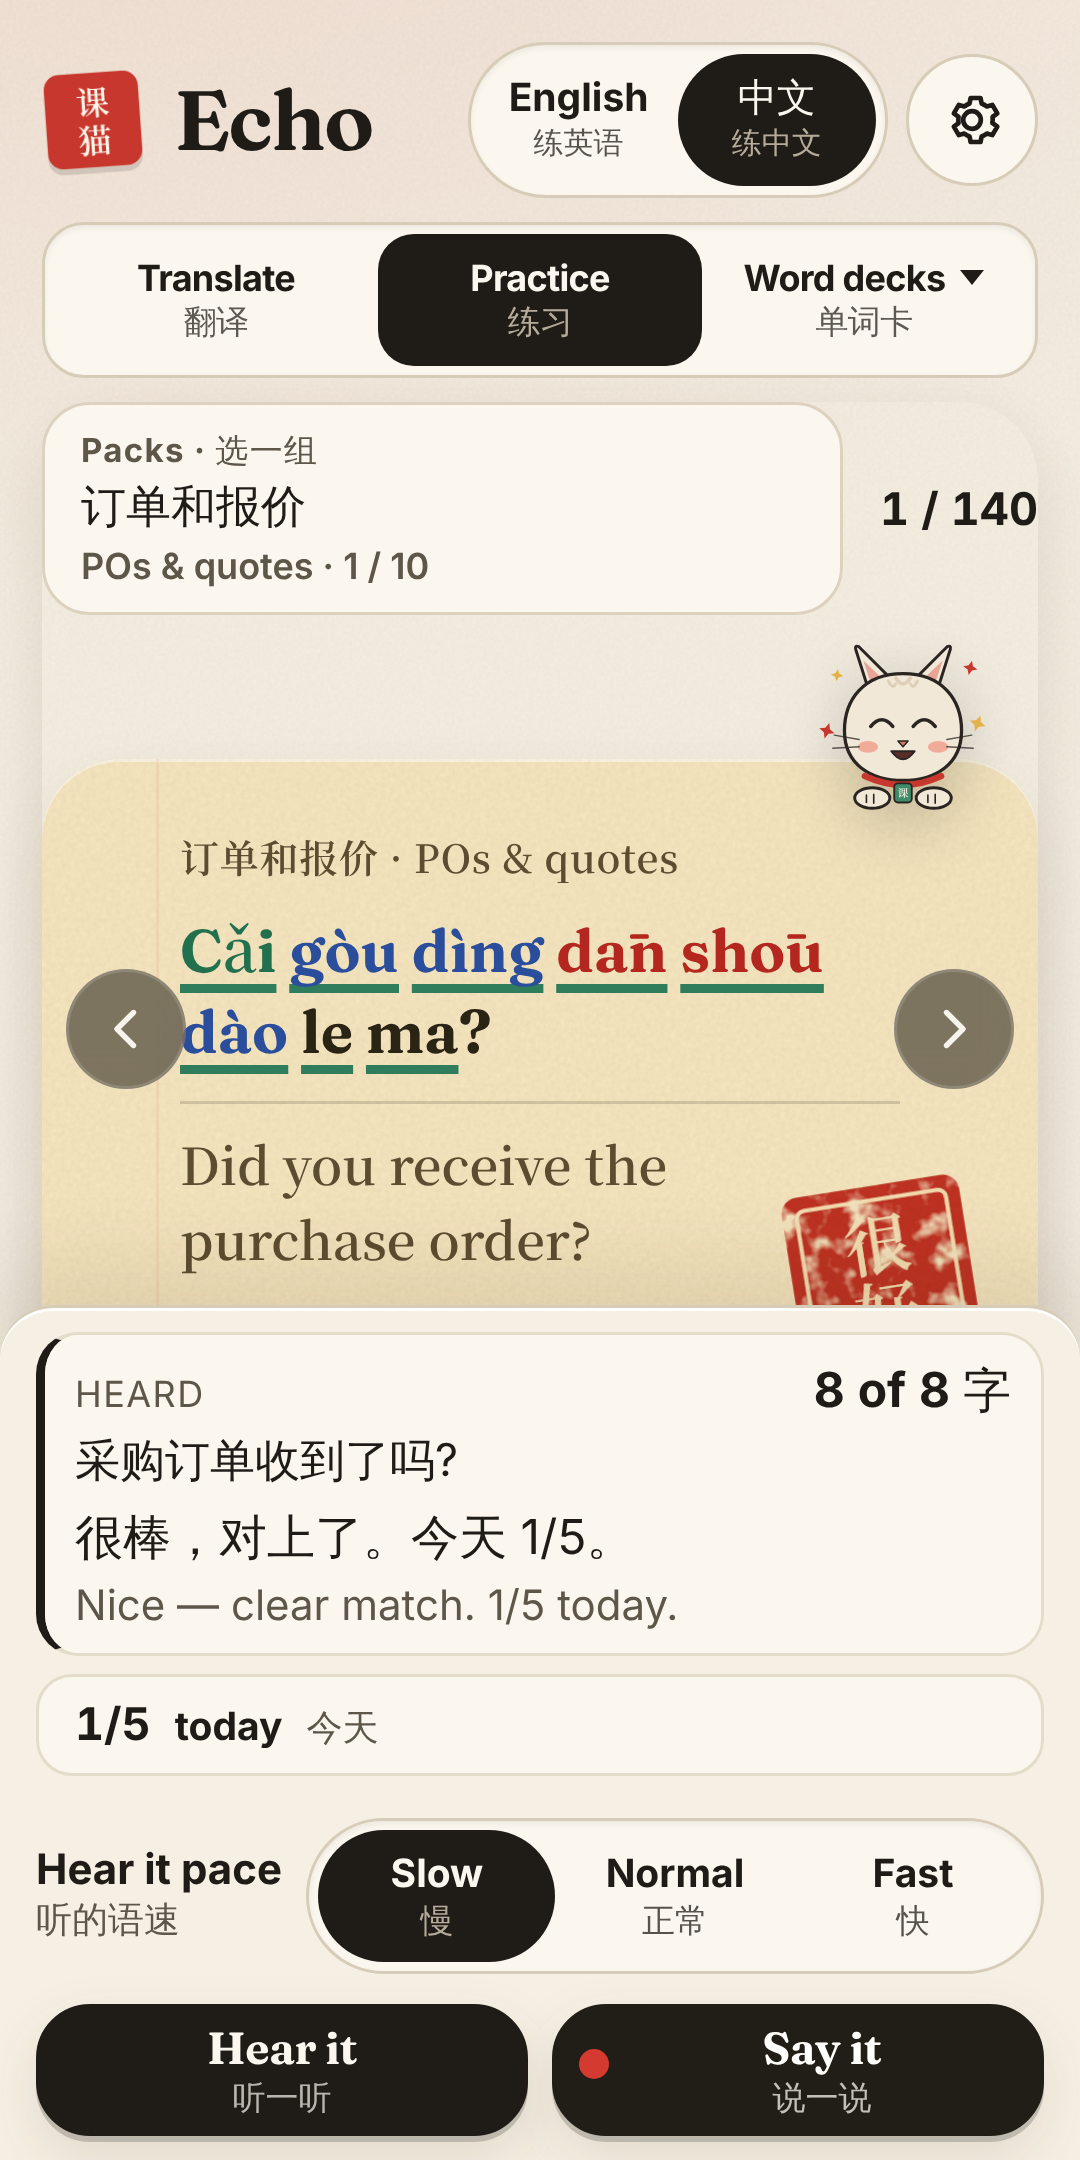
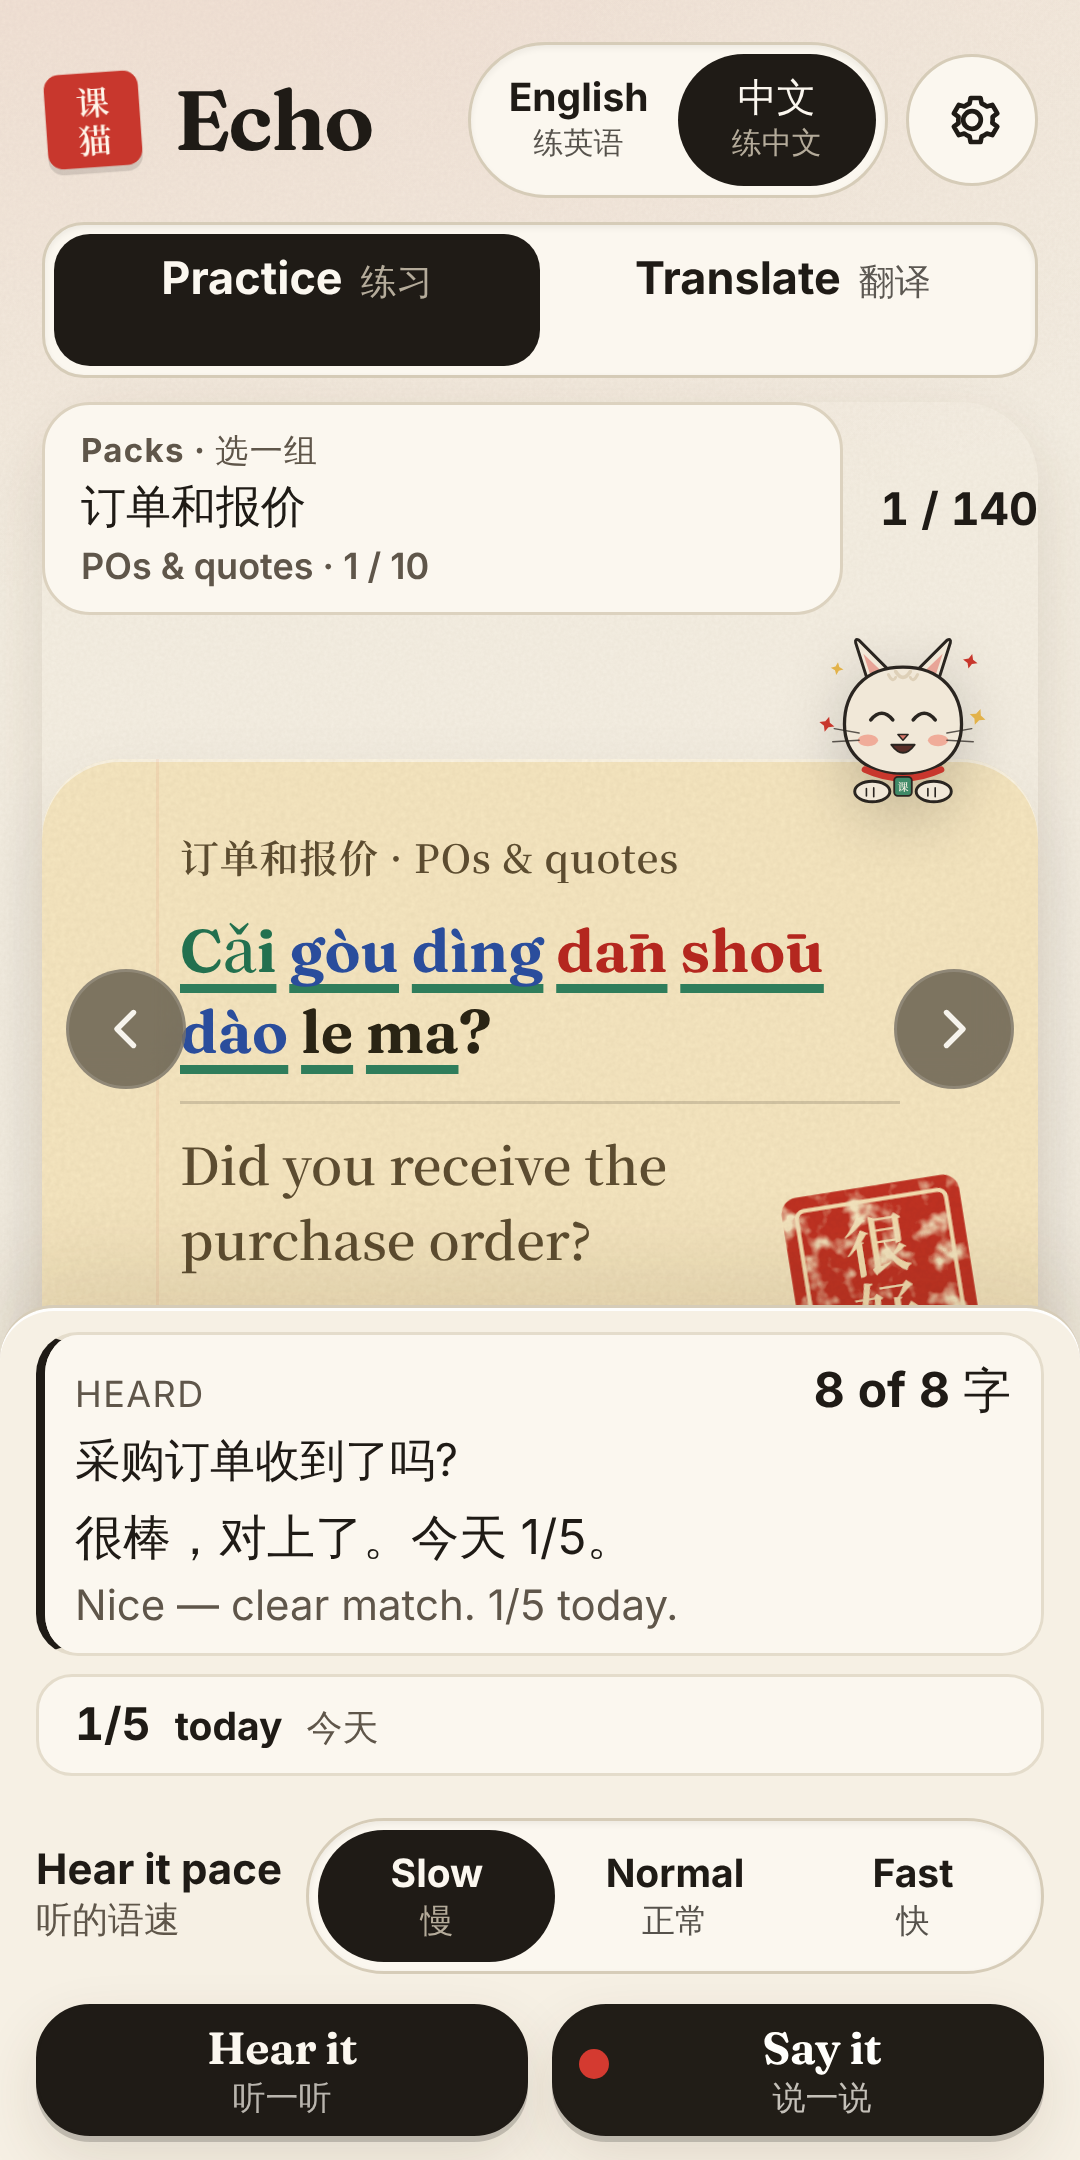
Hide Word decks; put Practice first and Translate second
Word decks stay in the code behind SHOW_WORD_DECKS (off). A saved
"words" mode falls back to Practice. Play screenshots, listing and
release notes updated.

Claude-Session: https://claude.ai/code/session_01SRqoHkY9zMNPVynvx2s1Nb

Changed region(s): [[0.0306, 0.0931, 0.3972, 0.1861], [0.4278, 0.0931, 0.8861, 0.1861], [0.7639, 0.2792, 0.9167, 0.3722]]

diff --git a/tests/word-card.test.tsx b/tests/word-card.test.tsx
@@ -147,8 +147,8 @@ describe("office word card", () => {
         onPickDeck: () => undefined,
       }),
     );
-    expect(open.indexOf('id="mode-translate"')).toBeLessThan(open.indexOf('id="mode-practice"'));
-    expect(open.indexOf('id="mode-practice"')).toBeLessThan(open.indexOf('id="mode-words"'));
+    expect(open.indexOf('id="mode-practice"')).toBeLessThan(open.indexOf('id="mode-translate"'));
+    expect(open.indexOf('id="mode-translate"')).toBeLessThan(open.indexOf('id="mode-words"'));
     expect(open).toContain(">Word decks<");
     expect(open).toContain(">单词卡<");
     expect(open).toContain('aria-haspopup="menu"');
@@ -168,8 +168,8 @@ describe("office word card", () => {
         onPickDeck: () => undefined,
       }),
     );
-    expect(chinese.indexOf('id="mode-translate"')).toBeLessThan(chinese.indexOf('id="mode-practice"'));
-    expect(chinese.indexOf('id="mode-practice"')).toBeLessThan(chinese.indexOf('id="mode-words"'));
+    expect(chinese.indexOf('id="mode-practice"')).toBeLessThan(chinese.indexOf('id="mode-translate"'));
+    expect(chinese.indexOf('id="mode-translate"')).toBeLessThan(chinese.indexOf('id="mode-words"'));
     expect(chinese).toContain('id="mode-words"');
     expect(chinese).toContain(`id="word-deck-${TIAN_DECK_ID}"`);
     expect(chinese).toContain(TIAN_DECK_NAME);

diff --git a/src/components/ModeNav.tsx b/src/components/ModeNav.tsx
@@ -60,16 +60,6 @@ export function ModeNav({ mode, onChange, decks = [], deckId = null, onPickDeck 
       <div className={showDecks ? "mode-switch has-decks" : "mode-switch"} role="group" aria-label="Mode. 模式">
         <button
           type="button"
-          id="mode-translate"
-          className={mode === "translate" ? "on" : undefined}
-          aria-pressed={mode === "translate"}
-          onClick={() => pickMode("translate")}
-        >
-          <span>Translate</span>
-          <small>翻译</small>
-        </button>
-        <button
-          type="button"
           id="mode-practice"
           className={mode === "practice" ? "on" : undefined}
           aria-pressed={mode === "practice"}
@@ -77,6 +67,16 @@ export function ModeNav({ mode, onChange, decks = [], deckId = null, onPickDeck 
         >
           <span>Practice</span>
           <small>练习</small>
+        </button>
+        <button
+          type="button"
+          id="mode-translate"
+          className={mode === "translate" ? "on" : undefined}
+          aria-pressed={mode === "translate"}
+          onClick={() => pickMode("translate")}
+        >
+          <span>Translate</span>
+          <small>翻译</small>
         </button>
         {showDecks ? (
           <div className="mode-deck" ref={deckRef}>

diff --git a/tests/translate.test.ts b/tests/translate.test.ts
@@ -215,9 +215,9 @@ describe("Translate screen", () => {
     expect(html).toContain('disabled=""');
   });
 
-  it("puts Translate before Practice and leaves Settings as the gear", () => {
+  it("puts Practice before Translate and leaves Settings as the gear", () => {
     const nav = renderToStaticMarkup(createElement(ModeNav, { mode: "practice", onChange: () => undefined }));
-    expect(nav.indexOf('id="mode-translate"')).toBeLessThan(nav.indexOf('id="mode-practice"'));
+    expect(nav.indexOf('id="mode-practice"')).toBeLessThan(nav.indexOf('id="mode-translate"'));
     expect(nav).not.toContain('id="mode-words"');
     expect(nav).toContain(">Practice<");
     expect(nav).toContain(">练习<");
@@ -249,5 +249,12 @@ describe("Translate screen", () => {
     expect(hook).not.toContain("api.openai.com");
     expect(readFileSync("src/translate/engine.ts", "utf8")).not.toMatch(/sk-[A-Za-z0-9]/);
     expect(readFileSync("src/speech/tts.ts", "utf8")).toContain("export function speakPlain");
+  });
+});
+
+describe("top tabs", () => {
+  it("hides Word decks in the app for now", () => {
+    const app = readFileSync("src/App.tsx", "utf8");
+    expect(app).toContain("const SHOW_WORD_DECKS = false;");
   });
 });

diff --git a/src/App.tsx b/src/App.tsx
@@ -14,6 +14,8 @@ import { wordDecksFor } from "./practice/words";
 import { useTranslate } from "./translate/useTranslate";
 import { clearLandingDismissed, readAppMode, readLandingDismissed, writeAppMode, writeLandingDismissed } from "./ui/landing";
 
+const SHOW_WORD_DECKS = false;
+
 export function App() {
   const practice = usePractice();
   const translate = useTranslate();
@@ -22,7 +24,8 @@ export function App() {
   const [showLanding, setShowLanding] = useState(() => !readLandingDismissed(practiceLocalStorage()));
   const [mode, setMode] = useState<EchoMode>(() => readAppMode(practiceLocalStorage()));
   const [deckPick, setDeckPick] = useState<string | null>(null);
-  const decks = wordDecksFor(lang);
+  // Word decks are hidden for now: Practice first, Translate second.
+  const decks = SHOW_WORD_DECKS ? wordDecksFor(lang) : [];
   const activeDeck = decks.find((deck) => deck.id === deckPick) ?? decks[0] ?? null;
   const shownMode: EchoMode = mode === "words" && decks.length === 0 ? "practice" : mode;
 

diff --git a/tests/words.test.ts b/tests/words.test.ts
@@ -224,7 +224,7 @@ describe("word practice wiring", () => {
     const practiceAt = nav.indexOf('id="mode-practice"');
     const wordsAt = nav.indexOf('id="mode-words"');
     expect(translateAt).toBeGreaterThan(-1);
-    expect(translateAt).toBeLessThan(practiceAt);
-    expect(practiceAt).toBeLessThan(wordsAt);
+    expect(practiceAt).toBeLessThan(translateAt);
+    expect(translateAt).toBeLessThan(wordsAt);
   });
 });

diff --git a/docs/play-store-listing.md b/docs/play-store-listing.md
@@ -56,7 +56,6 @@ Hear it plays a recording of the sentence. Say it listens with the microphone an
 
 English cards are office lines: meetings, email, the factory, quality, and orders. Chinese cards are work lines, plus Meituan delivery, taxi rides, and class sets for a tea house, online shopping, a shop, and the supermarket. Chinese cards show tone-marked pinyin.
 
-Word decks sit in the top bar. English has an Office words deck: five words each Shanghai day, with the meaning, one example, Hear it, and Say it. Chinese has a 天 family timeline.
 
 Translate is optional and needs a network. The sentence you type, or the text of a line you speak, is sent to MyMemory for the translation. Practice itself does not send that sentence. There is no account.
 
@@ -76,7 +75,6 @@ Settings holds the reminder, light or dark theme, a microphone note, the feedbac
 
 英语卡片是办公室用语：会议、邮件、工厂、质量和订单。中文卡片是工作用语，加上美团外卖、打车，以及茶馆、网购、商店和超市的课堂句子。中文卡片显示带声调的拼音。
 
-单词卡在顶栏。英语有办公词汇：每个上海日五张，带中文意思、一个例句、听一听和说一说。中文有「天」字族时间线。
 
 翻译是可选的，需要网络。你打出的句子，或说完后转成的文字，会发给 MyMemory 做翻译。练习本身不发送这句话。没有账号。
 
@@ -128,7 +126,7 @@ Do you want to add a privacy policy? **Yes.** URL above. The in-app link is Sett
 
 - Collected: yes. Shared: yes, with MyMemory / Translated (`api.mymemory.translated.net`).
 - Processed ephemerally: no. Their terms say submitted segments can be stored long term. The app does not keep a copy.
-- Optional: yes. Practice and word decks never send it. The user can ignore Translate.
+- Optional: yes. Practice never sends it. The user can ignore Translate.
 - Purpose: App functionality only. Not advertising, not analytics, not tracking.
 - What is sent: the sentence (max 500 characters) and `langpair` (`en|zh-CN` or `zh-CN|en`). No cookies. No MyMemory account. The optional `de` developer email is not set in the current public website bundle or in the Android build.
 

diff --git a/docs/closed-testing-1.1.0.md b/docs/closed-testing-1.1.0.md
@@ -27,6 +27,7 @@ en-US:
 ```text
 A new look: ink on rice paper, one red seal.
 • Echo the cat now reacts — listens, thinks, cheers, naps, and dresses up for the festivals.
+• Simpler top bar: Practice, then Translate.
 • A 很好 seal stamps the card when you say a line clearly.
 • Tone colors on pinyin (Settings).
 • Better Chinese scoring: traditional characters and sound-alikes now count.
@@ -38,6 +39,7 @@ zh-CN:
 ```text
 全新外观：宣纸、墨色和一枚红印章。
 • 课猫会听、会想、会欢呼、会打盹，节日还会换装。
+• 顶栏更简单：先练习，再翻译。
 • 说清楚一句，卡片上会盖一个「很好」章。
 • 拼音声调颜色（设置里可关）。
 • 中文评分更准：繁体字和同音字也算对。
